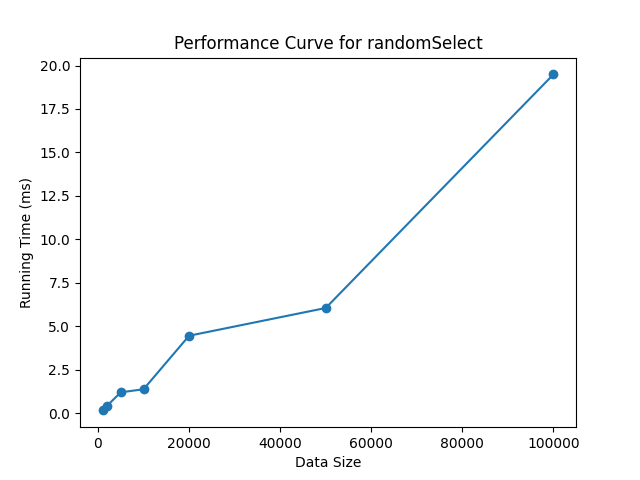
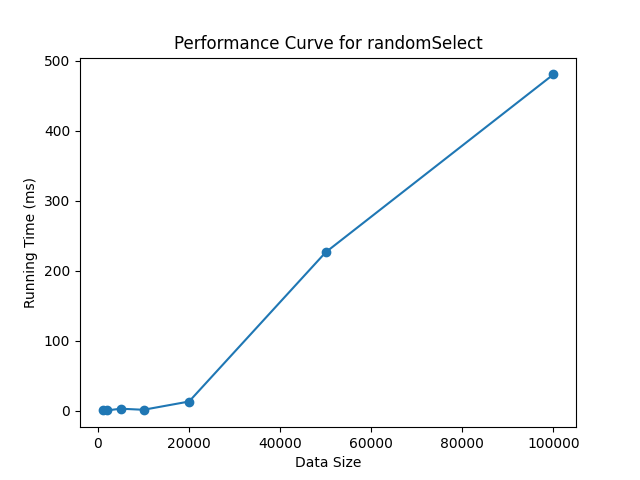
optim_hm2

diff --git a/convex_optimizer/homework/hm2/appendix/0.py b/convex_optimizer/homework/hm2/appendix/0.py
@@ -1,0 +1,45 @@
+import numpy as np
+from scipy.optimize import minimize_scalar
+
+# 测试函数定义
+def quadratic(x):
+    a, b, c = 2, -3, 1
+    return a * x**2 + b * x + c
+
+def cubic(x):
+    a, b, c, d = 1, -2, 1, 2
+    return a * x**3 + b * x**2 + c * x + d
+
+def quartic(x):
+    a, b, c, d, e = 1, -2, 1, 2, 1
+    return a * x**4 + b * x**3 + c * x**2 + d * x + e
+
+def rosenbrock(x):
+    a, b = 1, 100
+    return (a - x)**2 + b * (x**2 - x)**2
+
+def rastrigin(x):
+    A = 10
+    return A + x**2 - A * np.cos(2 * np.pi * x)
+
+def ackley(x):
+    a, b = 20, 0.2
+    return -a * np.exp(-b * np.sqrt(x**2 / 2)) - np.exp(np.cos(2 * np.pi * x) / 2) + a + np.exp(1)
+
+def griewank(x):
+    return 1 + x**2 / 4000 - np.cos(x)
+
+def schwefel(x):
+    return 418.9829 - x * np.sin(np.sqrt(np.abs(x)))
+
+test_functions = [quadratic, cubic, quartic, rosenbrock, rastrigin, ackley, griewank, schwefel]
+
+methods = ['golden', 'fibonacci', 'brent', 'bounded']  # SciPy库提供的一维搜索方法
+
+for i, func in enumerate(test_functions):
+    print(f"测试函数{i + 1}:")
+    for method in methods:
+        result = minimize_scalar(func, method=method, bounds=(-5, 5)) if method == 'bounded' else minimize_scalar(func, method=method)
+        print(f"{method} 方法:")
+        print(f"  最优解: {result.x}, 函数值: {result.fun}")
+    print("\n")

diff --git a/algorithm/lab/lab4/randomSelect.py b/algorithm/lab/lab4/randomSelect.py
@@ -1,21 +1,37 @@
 import random
 
 def randomSelect(nums):
-    return select_kth_smallest(nums,2)
+    return lazy_select(nums,2)
 
 
-def select_kth_smallest(arr, k):
-    pivot = random.choice(arr)
-    lows = [el for el in arr if el < pivot]
-    highs = [el for el in arr if el > pivot]
-    pivots = [el for el in arr if el == pivot]
+def rank(arr, x):
+    return sum(1 for el in arr if el <= x)
 
-    if k <= len(lows):
-        return select_kth_smallest(lows, k)
-    elif k > len(lows) + len(pivots):
-        return select_kth_smallest(highs, k - len(lows) - len(pivots))
-    else:
-        return pivot
+
+def lazy_select(S, k):
+    n = len(S)
+    while True:
+        m = int(n**(3/4))
+        p = int(k/n)
+        R = random.sample(S, k=m)
+        R.sort()
+        x = p*m
+        gap = int(n**(1/2))
+
+        l = max(x - gap, 0)
+        h = min(x + gap, m-1)
+
+        L = R[l]
+        H = R[h]
+
+        Lp = rank(S, L)
+        Hp = rank(S, H)
+
+        P = [y for y in S if L <= y <= H]
+
+        if Lp <= k <= Hp and len(P) <= 4 * n**(3/4) + 1:
+            P.sort()
+            return P[k - Lp]
 
 if __name__=='__main__':
     nums = [3,2,1,5,6,4]

diff --git a/convex_optimizer/homework/hm2/appendix/conjugate_gradient.py b/convex_optimizer/homework/hm2/appendix/conjugate_gradient.py
@@ -1,0 +1,33 @@
+import numpy as np
+
+def f(x):
+    return x[0] - x[1] + 2 * x[0] ** 2 + 2 * x[0] * x[1] + x[1] ** 2
+
+def gradient(x):
+    df_dx1 = 1 + 4 * x[0] + 2 * x[1]
+    df_dx2 = -1 + 2 * x[0] + 2 * x[1]
+    return np.array([df_dx1, df_dx2])
+
+def conjugate_gradient(x0, epsilon):
+    x = x0
+    r = -gradient(x)
+    d = r
+    k = 0
+
+    while np.linalg.norm(r) > epsilon:
+        alpha = np.dot(r, r) / np.dot(d, gradient(x + d))
+        x = x + alpha * d
+        r_new = r - alpha * gradient(x)
+        beta = np.dot(r_new, r_new) / np.dot(r, r)
+        d = r_new + beta * d
+        r = r_new
+        k += 1
+
+    return x, k
+
+x0 = np.array([0, 0])
+epsilon = 1e-6
+x_min, iterations = conjugate_gradient(x0, epsilon)
+
+print("最小值点：", x_min)
+print("迭代次数：", iterations)

diff --git a/algorithm/lab/lab4/main.py b/algorithm/lab/lab4/main.py
@@ -23,3 +23,9 @@ if __name__ == '__main__':
     plot_performance_curve(algorithm, datasets)
 
 
+# python main.py --algo divSelect --sizes 1000,2000,5000,10000,20000,50000,100000
+
+# python main.py --algo randomSelect --sizes 1000,2000,5000,10000,20000,50000,100000
+
+
+
